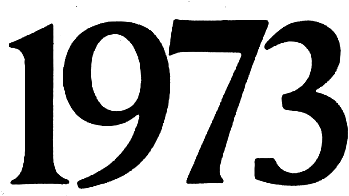
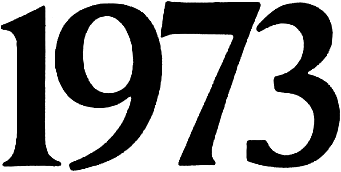
fix(identity): clean and align the 1973 Pontiac headline lettering (#3387)
- Cutter: --min-area drops isolated specks, --defringe erodes the rim 1px,
  softens it and recolours edge pixels from the mark's interior, --ground
  marks counters seen through a chrome part, --cap/measure report cap
  metrics. Commands without the flags reproduce their files byte for byte.
- Re-cut PONTIAC tail letters (specks gone), Firebird script (counters
  transparent, no fringe), the car's TRANS AM decal (green 40-90, clean
  orange rim) and the full-line "1973" (specks gone, tighter crop).
- Every cutout carries top-level capMetrics; VehicleIdentity sets all
  marks at one cap height (0.9em) on one baseline, "-Style" at the same
  cap height, and a printed year in the identity's ink.
- The full-line cover "1973" leads the year role.

diff --git a/nuke_frontend/src/components/common/MakeIdentity.test.tsx b/nuke_frontend/src/components/common/MakeIdentity.test.tsx
@@ -150,7 +150,8 @@ it('keeps a library of sourced 1973 Pontiac lettering, each version inside its d
       resolveVehicleArtwork({ year, make: 'Pontiac', model, variants, vehicleId }).filter(a => a.role === role).map(a => a.file)]));
   const tribute = files(1973, 'Firebird', [{ kind: 'trim', value: 'Trans Am-Style' }]);
   // Several versions per mark; the first headline-eligible one is what the headline renders.
-  expect(tribute.year).toEqual(['pontiac-1973-accessorizer-year-cut.png', 'pontiac-1973-full-line-year-cut.png', 'pontiac-firebird-1973-canada-73-cut.png']);
+  // The heavy full-line cover numeral leads; the hairline Accessorizer year stays in the library order behind it.
+  expect(tribute.year).toEqual(['pontiac-1973-full-line-year-cut.png', 'pontiac-1973-accessorizer-year-cut.png', 'pontiac-firebird-1973-canada-73-cut.png']);
   expect(tribute.make).toEqual(['pontiac-firebird-tail-letters-1970-1973-cut.png', 'pontiac-1973-accessorizer-pontiac-cut.png',
     'pontiac-1973-full-line-pontiac-cut.png', 'pontiac-firebird-1973-canada-pontiac-cut.png']);
   expect(tribute.model).toEqual(['pontiac-firebird-fender-script-1971-1981-cut.png', 'pontiac-1973-full-line-firebird-cut.png',
@@ -167,6 +168,15 @@ it('keeps a library of sourced 1973 Pontiac lettering, each version inside its d
       expect(asset.cutout.command).toContain(`nuke_frontend/public/stacks/makes/${asset.file}`);
       expect(asset.localSha256Base64).toBeTruthy();
       expect(['monochrome', 'chrome', 'color']).toContain(asset.tone);
+      // Where its capitals sit in the file, measured on a named reference glyph's columns, so every mark shares one cap
+      // height and baseline. Top-level, so the build's provenance projection keeps it.
+      const { capHeight, baseline, glyph, columns } = asset.capMetrics!;
+      expect(capHeight).toBeGreaterThan(0.8);
+      expect(capHeight + baseline).toBeLessThanOrEqual(1);
+      expect(glyph).toBeTruthy();
+      const [c0, c1] = columns.split('-').map(Number);
+      expect(c0).toBeGreaterThanOrEqual(0);
+      expect(c1).toBeLessThan(asset.sourceWidth);
     } else expect(asset.headline).toBe('library');
   }
   expect(all.filter(a => a.headline === 'library').map(a => [a.role, a.viewport])).toEqual([
@@ -190,7 +200,7 @@ it('keeps a library of sourced 1973 Pontiac lettering, each version inside its d
   expect(files(1976, 'Firebird', [{ kind: 'trim', value: 'Trans Am' }]).variant).toEqual([]);
   // Another 1973 Pontiac gets only the make-wide literature: no Firebird letters, script, bird or decal.
   const grandPrix = files(1973, 'Grand Prix', [{ kind: 'trim', value: 'Trans Am' }]);
-  expect(grandPrix).toEqual({ year: ['pontiac-1973-accessorizer-year-cut.png', 'pontiac-1973-full-line-year-cut.png'],
+  expect(grandPrix).toEqual({ year: ['pontiac-1973-full-line-year-cut.png', 'pontiac-1973-accessorizer-year-cut.png'],
     make: ['pontiac-1973-accessorizer-pontiac-cut.png', 'pontiac-1973-full-line-pontiac-cut.png'], emblem: ['pontiac-1973-accessorizer-cover.jpg'], model: [], variant: [] });
   expect(resolveVehicleArtwork({ year: 1973, make: 'Chevrolet', model: 'Firebird' })).toEqual([]);
 });
@@ -206,11 +216,15 @@ it('sets the 1973 tribute headline in cutout lettering on the page surface, keep
       variants={[{ kind: 'trim', value: 'Trans Am-Style' }]} onExplore={() => {}} />));
     // Printed single-colour lettering is a mask in the text colour; chrome and the car's own decal keep their colour.
     expect(marks()).toEqual([
-      ['year', 'mask', '/stacks/makes/pontiac-1973-accessorizer-year-cut.png'],
+      ['year', 'mask', '/stacks/makes/pontiac-1973-full-line-year-cut.png'],
       ['make', 'image', '/stacks/makes/pontiac-firebird-tail-letters-1970-1973-cut.png'],
       ['model', 'image', '/stacks/makes/pontiac-firebird-fender-script-1971-1981-cut.png'],
       ['variant', 'image', '/stacks/makes/pontiac-firebird-trans-am-style-owner-decal-cut.png'],
     ]);
+    // Each mark carries its catalogue cap metrics, which the stylesheet turns into one shared cap band.
+    expect([...host.querySelectorAll<HTMLElement>('.vehicle-identity__art')].map(node =>
+      [node.style.getPropertyValue('--art-cap'), node.style.getPropertyValue('--art-base')])).toEqual([
+      ['0.936', '0.029'], ['0.954', '0.023'], ['0.974', '0.018'], ['0.913', '0.029']]);
     // No arrowhead box, no shadowed decal photograph, no nameplate panel.
     expect(host.querySelector('image')).toBeNull();
     expect(host.querySelector('.vehicle-identity')?.getAttribute('data-inline-artwork')).toBe('true');

diff --git a/nuke_frontend/src/components/common/MakeIdentity.css b/nuke_frontend/src/components/common/MakeIdentity.css
@@ -72,11 +72,21 @@
 /* Compact headlines size each lettering from its catalogue width/height at every width; long maker lettering is
    not squeezed to a crest's width (after the media block, which has the same specificity). */
 .vehicle-identity--compact[data-variant-artwork="true"] .vehicle-identity__art--make { width:auto; }
-/* A cutout mark at the headline's height (about 1.1 of the identity's font size: 22px in the profile masthead), its width
-   from its own proportions. A single-colour print is a mask filled with the text colour, so it follows the theme. */
-@property --identity-art-h { syntax:'<length>'; inherits:true; initial-value:22px; }
-.vehicle-identity { --identity-art-h:1.1em; }
-.vehicle-identity .vehicle-identity__art.vehicle-identity__art--cutout { display:block; flex-shrink:1; height:var(--identity-art-h); width:calc(var(--identity-art-h) * var(--art-ratio)); max-width:100%; }
+/* Cutout marks share one cap height and one baseline. Each file is set at the shared cap height divided by its capitals'
+   share of the file (catalogue capMetrics: capHeight, and baseline above the file's bottom), and negative block margins
+   leave only its cap band in the layout, so the centred rows put every mark's capitals on the same band whatever the
+   container. The cap is 0.9 of the identity's font size (18px in the profile masthead), computed once at the identity
+   root. Marks never shrink: a squeezed box would keep its height while its lettering shrank; rows wrap instead.
+   A single-colour print is a mask filled with the text colour, so it follows the theme. */
+@property --identity-cap { syntax:'<length>'; inherits:true; initial-value:18px; }
+.vehicle-identity { --identity-cap:0.9em; }
+.vehicle-identity .vehicle-identity__art.vehicle-identity__art--cutout { --art-h:calc(var(--identity-cap) / var(--art-cap, 1)); display:block; flex-shrink:0; height:var(--art-h); width:calc(var(--art-h) * var(--art-ratio)); max-width:100%;
+  margin-block:calc(var(--art-h) * (var(--art-cap, 1) + var(--art-base, 0) - 1)) calc(var(--art-h) * var(--art-base, 0) * -1); }
 .vehicle-identity .vehicle-identity__art.vehicle-identity__art--cutout img { display:block; width:100%; height:100%; max-width:none; object-fit:contain; object-position:left center; }
 .vehicle-identity .vehicle-identity__art--mask { background:currentColor; -webkit-mask:var(--art-src) left center / contain no-repeat; mask:var(--art-src) left center / contain no-repeat; }
 .vehicle-identity .vehicle-identity__art.vehicle-identity__art--mask img { display:none; }
+/* Lettering is one ink: a printed year takes the identity's colour, not a secondary text tone set for a text year. */
+.vehicle-identity[data-inline-artwork="true"] .vehicle-identity__year:has(.vehicle-identity__art--cutout) { color:inherit; }
+/* What the record adds beside the lettering ("-Style") is text at the same cap height (0.71em in the system and Arial
+   faces); line-height 1 centres its capitals on the shared band. */
+.vehicle-identity[data-inline-artwork="true"] .vehicle-identity__qualifier { font-size:calc(var(--identity-cap) / 0.71); line-height:1; }

diff --git a/nuke_frontend/src/components/common/MakeIdentity.tsx b/nuke_frontend/src/components/common/MakeIdentity.tsx
@@ -91,11 +91,13 @@ function variantQualifier(asset: VehicleArtwork, name: string) {
 function VehicleArtworkImage({ asset, fallback, text = false }: { asset: VehicleArtwork; fallback?: string; text?: boolean }) {
   const [failed, setFailed] = useState(false);
   if (failed) return fallback ? <span>{fallback}</span> : null;
-  // A cutout (no background) sits on the page surface at the headline's height: a single-colour print is a mask in the
-  // text colour; photographed chrome and the car's own decal keep their colour.
+  // A cutout (no background) sits on the page surface: a single-colour print is a mask in the text colour; photographed
+  // chrome and the car's own decal keep their colour. Its catalogue capMetrics (where its capitals sit in the file) let
+  // every mark share one cap height and baseline.
   if (asset.cutout && !text) {
     const src = `/stacks/makes/${asset.file}`;
-    const style = { '--art-ratio': asset.sourceWidth / asset.sourceHeight, '--art-src': `url("${src}")` } as React.CSSProperties;
+    const style = { '--art-ratio': asset.sourceWidth / asset.sourceHeight, '--art-src': `url("${src}")`,
+      ...(asset.capMetrics ? { '--art-cap': asset.capMetrics.capHeight, '--art-base': asset.capMetrics.baseline } : {}) } as React.CSSProperties;
     return asset.tone === 'monochrome'
       ? <span className="vehicle-identity__art vehicle-identity__art--cutout vehicle-identity__art--mask" data-role={asset.role} style={style}>
         <img src={src} alt="" hidden onError={() => setFailed(true)} />

diff --git a/nuke_frontend/public/stacks/makes/SOURCES.md b/nuke_frontend/public/stacks/makes/SOURCES.md
@@ -113,10 +113,23 @@ first headline match per role: the car's own decal, then the on-car parts, then 
 `headline: "library"` stay in the library and never set a headline. These are the boxed arrowhead, the fender bird and
 the shadowed Phoenix decal photographs.
 
+Re-cut 2026-11-11 (headline polish). The cutter gained flags, each recorded in the command it applies to:
+`--min-area` drops isolated specks (the crumbs between the PONTIAC letters), `--defringe` pulls the rim in by a source
+pixel, softens it and gives every edge pixel the colour of the mark beside it (no ground or paint fringe on the chrome
+or the decal), and `--ground` marks the counters seen through the Firebird script (F loop, both e counters, b and d
+bowls) as ground. Commands without these flags still reproduce their files byte for byte. The decal is now keyed on
+green 40-90 for fuller strokes. Every cutout carries top-level `capMetrics`: the capitals' share of the file height and
+the baseline's distance from its bottom, measured on a named reference glyph's columns (`glyph`, `columns`: the script's
+F, the numerals' 1, mixed-case Pontiac's P, the decal's centre N and S, whole width for block capitals). Rerun with
+`node nuke_frontend/scripts/cut-identity-lettering.cjs measure <file> <columns>` (or `--cap` on the cut). The headline
+sets every mark at one shared cap height (0.9 of the identity's font size) on one baseline, and "-Style" text at the
+same cap height. The year now leads with the US full-line cover "1973", the heaviest numeral in the library, filled in
+the identity's ink; the hairline Accessorizer "1973" follows it.
+
 | Role | Version | Source | Applicability |
 | --- | --- | --- | --- |
+| year | "1973", US full-line brochure cover (headline default) | [oldcarbrochures.org](https://oldcarbrochures.org/United%20States/Pontiac/1973%20Pontiac/1973-Pontiac-Full-Line-Brochure/slides/1973_Pontiac_Full_Line-01.html) | all Pontiac, 1973 |
 | year | "1973", Accessorizer & Selling Facts dealer book cover | [oldcarbrochures.org](https://oldcarbrochures.org/United%20States/Pontiac/1973%20Pontiac/1973%20Pontiac%20Accessorizer/slides/1973%20Pontiac%20Accessorizer-01.html) | all Pontiac, 1973 |
-| year | "1973", US full-line brochure cover | [oldcarbrochures.org](https://oldcarbrochures.org/United%20States/Pontiac/1973%20Pontiac/1973-Pontiac-Full-Line-Brochure/slides/1973_Pontiac_Full_Line-01.html) | all Pontiac, 1973 |
 | year | "73", GM of Canada Firebird brochure cover | [oldcarbrochures.org](https://oldcarbrochures.org/Canada/GM-Canada/Pontiac-Firebird-Cdn/1973-Pontiac-Firebird-Brochure/slides/1973_Pontiac_Firebird_Cdn-01.html) (byte-identical at [lov2xlr8.no](https://www.lov2xlr8.no/brochures/pontiac/73fire/73fire.html)) | Firebird, 1973 |
 | variant | "TRANS AM" orange decal on this car, cut from its own photograph (`vehicle_images` 9b8ec6d9-8e27-41f4-9428-5c025a1c46f0) | the vehicle's profile | vehicle 20d21fb0-4651-4469-a0ba-e751309a1e54 only |
 | make | "PONTIAC" tail panel letters, OER K1049 | [oerparts.com](https://www.oerparts.com/product/1973/pontiac/firebird/parts/k1049.html) | Firebird, 1970-73 |
